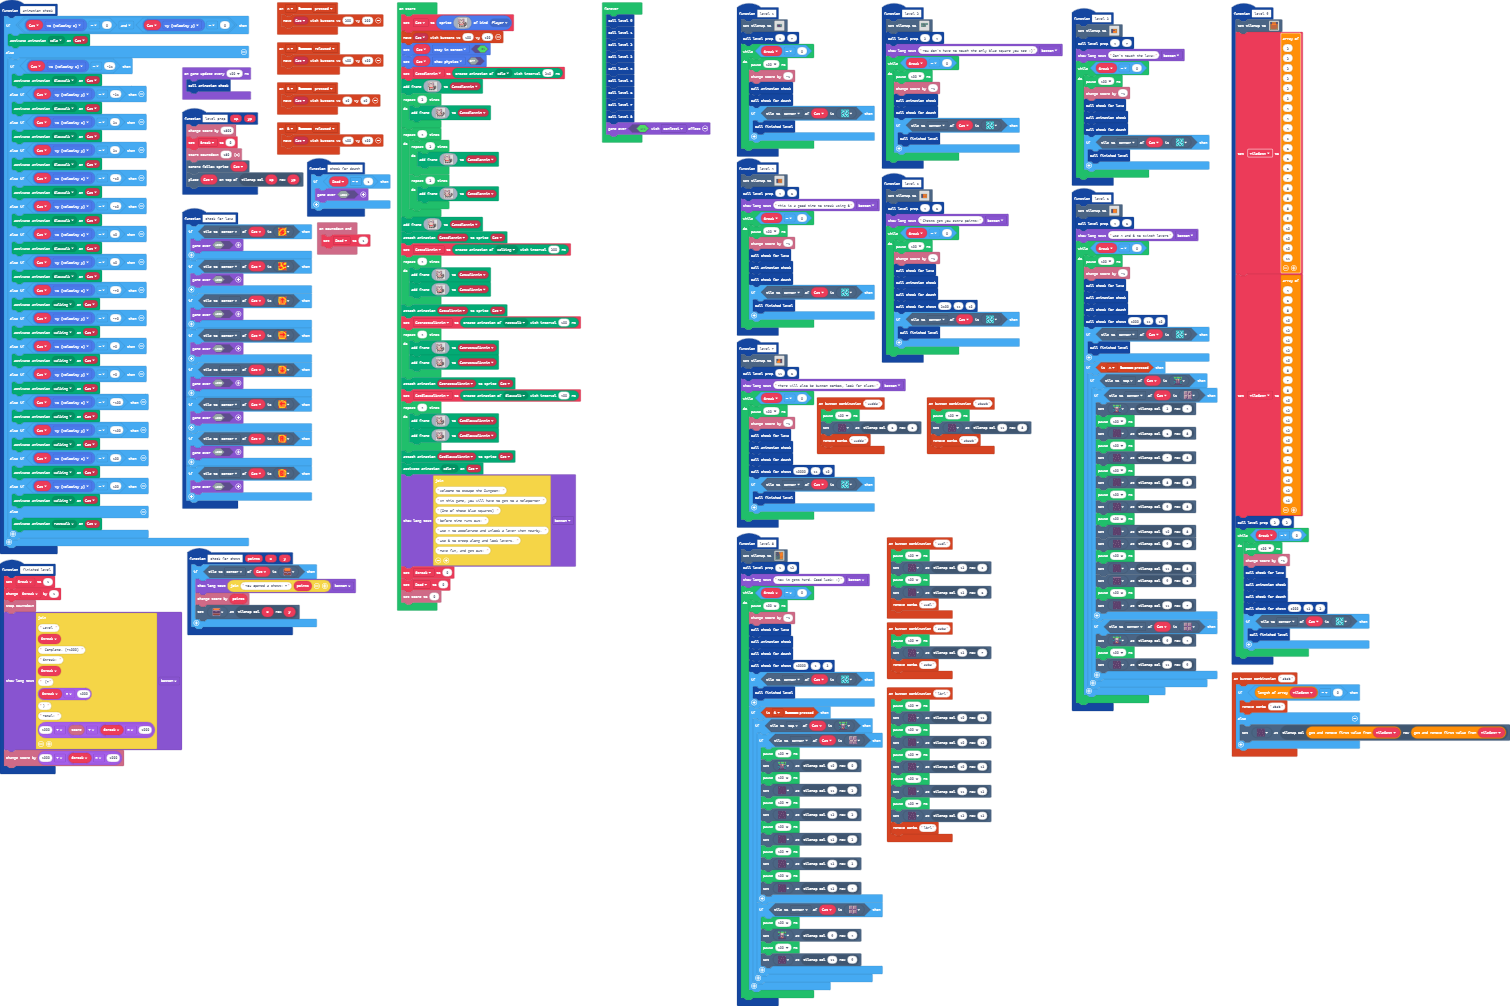
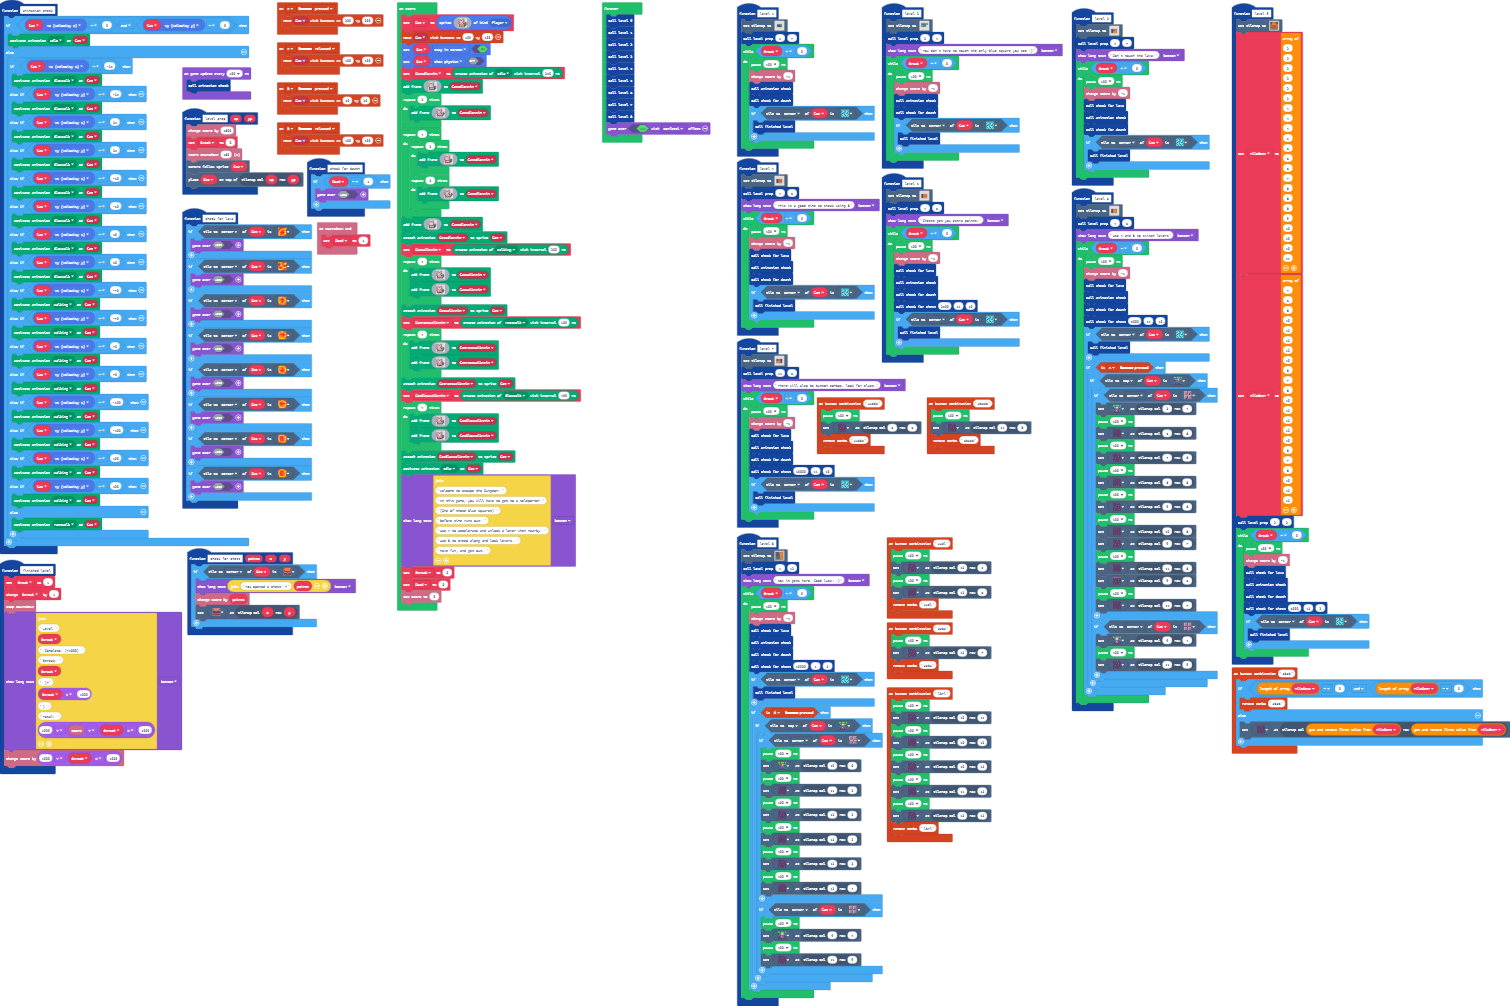
Update main.blocks, main.ts

diff --git a/main.ts b/main.ts
@@ -285,7 +285,7 @@ function level_3 () {
     }
 }
 controller.combos.attachCombo("abab", function () {
-    if (TileSetX.length == 0) {
+    if (TileSetX.length == 0 && TileSetY.length == 0) {
         controller.combos.detachCombo("abab")
     } else {
         tiles.setTileAt(tiles.getTileLocation(TileSetX.shift(), TileSetY.shift()), sprites.dungeon.darkGroundCenter)
